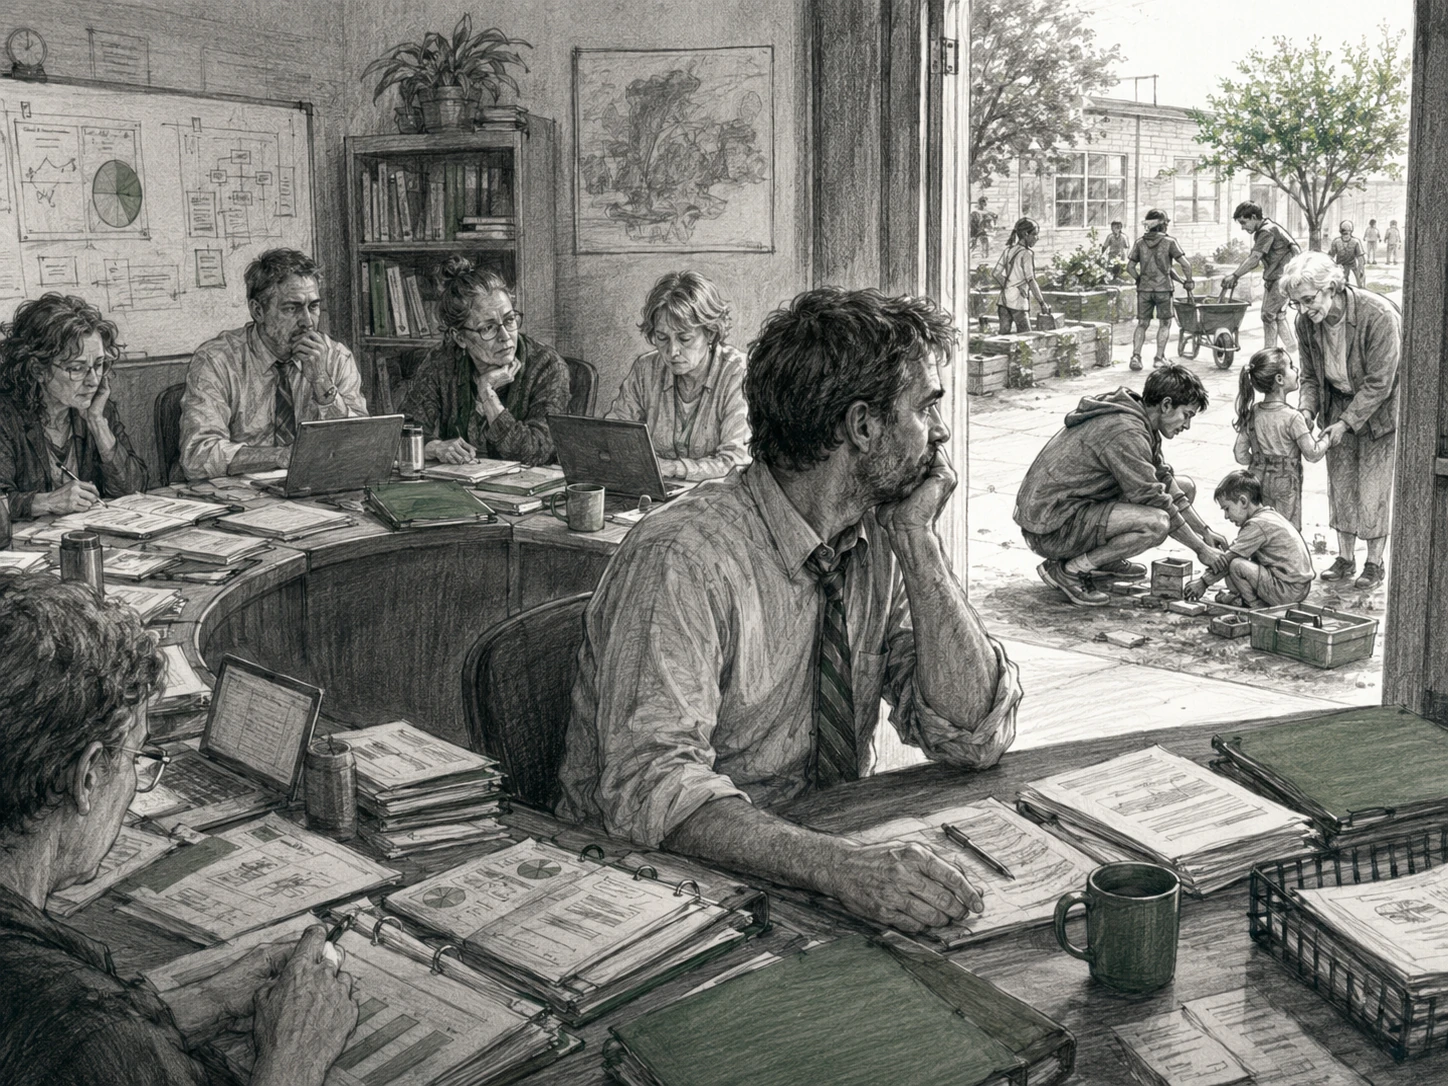
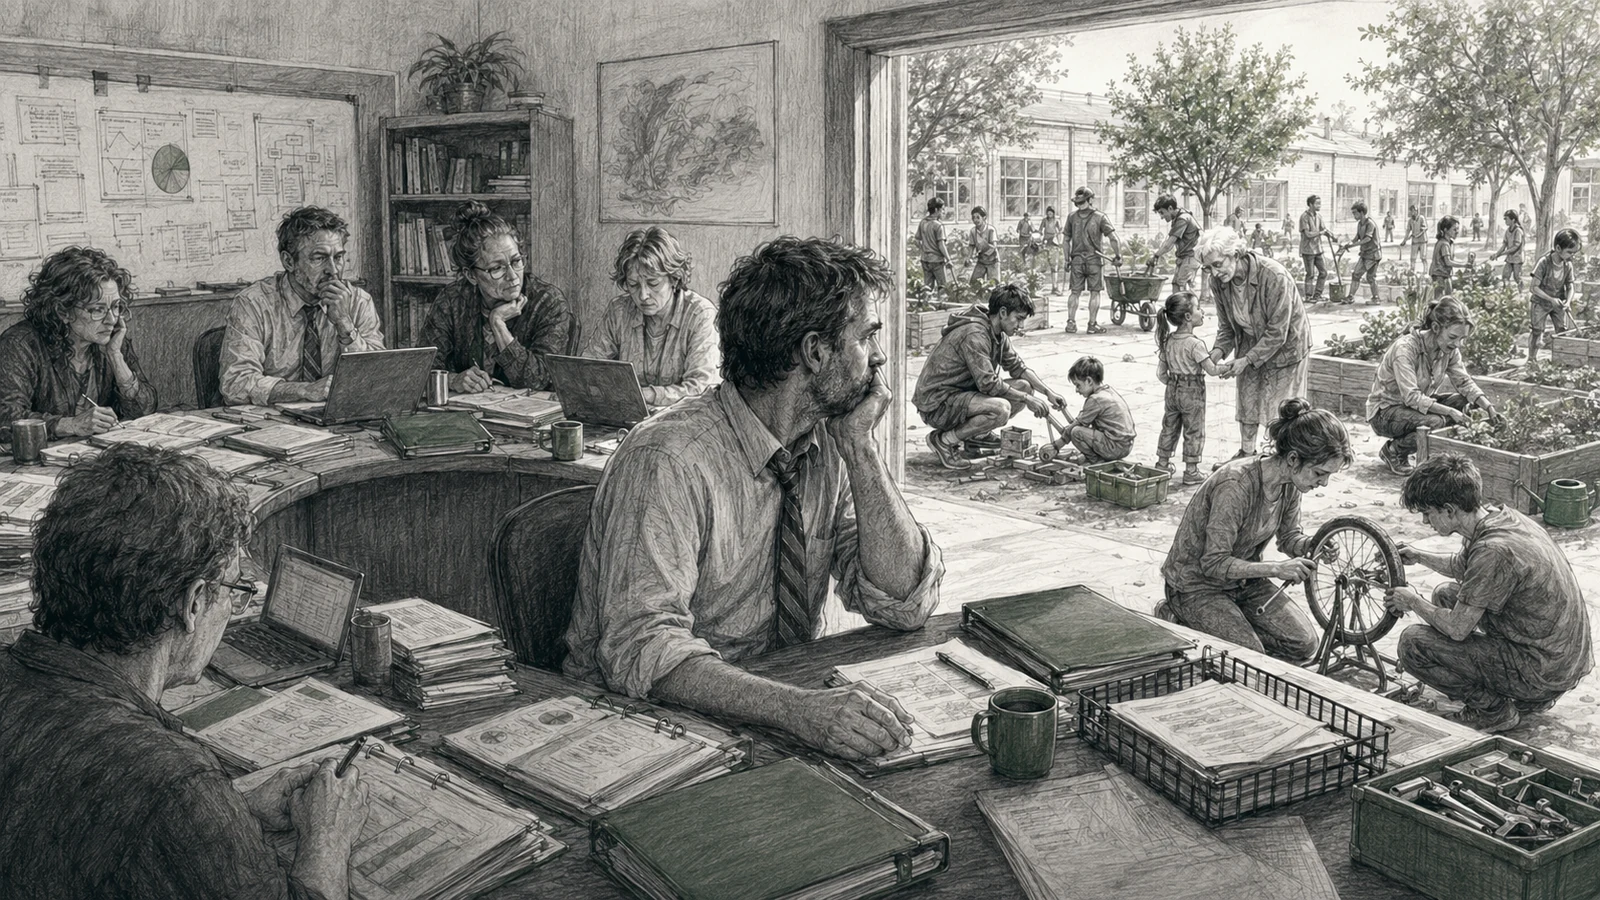
Update I Was Looking for Better Objections

diff --git a/src/content/posts/i-was-looking-for-better-objections/index.tsx b/src/content/posts/i-was-looking-for-better-objections/index.tsx
@@ -1,6 +1,8 @@
 import type { LifeEducationPost } from "../../postTypes";
 import { PostFigure } from "../../../components/PostFigure";
 import bodyImageOne from "./images/body-image-1.webp";
+import bodyImageTwo from "./images/body-image-2.webp";
+import bodyImageThree from "./images/body-image-3.webp";
 import bodyImageFour from "./images/body-image-4.webp";
 import { metadata } from "./meta";
 
@@ -55,6 +57,11 @@ const post: LifeEducationPost = {
 
       <p>"Not every family can do this" may be the strongest practical objection. Most families can't simply replace school under current work, housing, transportation, childcare, and income arrangements. My family currently depends on the custodial function of school too. That is an argument against pretending LifeEducation can become an immediate universal replacement. It isn't an argument that the current education is good enough.</p>
 
+      <PostFigure
+        src={bodyImageTwo}
+        alt="Young people move toward the same real-world destination along several supported paths involving coaching, tutoring, mobility access, tools, transportation, and community help."
+      />
+
       <h2>What the Feedback Was Actually Good For</h2>
 
       <p>The conversations did not expose a fatal flaw in the Floor, the evidence model, or the transfer of responsibility. They did expose something useful: I had not made several distinctions clearly enough for an ordinary reader encountering LifeEducation for the first time.</p>
@@ -73,11 +80,16 @@ const post: LifeEducationPost = {
         <li>Are you attacking teachers?</li>
       </ul>
 
-      <p>Those questions matter because they show where readers are likely to misunderstand the project. LifeEducation isn't anti-learning, anti-teacher, anti-structure, or anti-serious study. It doesn't claim that school never helps anyone or that every family can leave tomorrow. It does claim that school should be treated as one possible environment rather than the unquestioned authority over childhood and learning.</p>
+      <p>Those questions matter because they show where readers are likely to misunderstand the project. LifeEducation isn't anti-learning, anti-teacher, anti-structure, or anti-serious study. It doesn't claim that school never helps anyone or that every family can leave tomorrow. It does claim that school is one possible environment, not the operating system and not the default authority over childhood and learning. A school has to prove that it builds capability; it doesn't get automatic trust because it's official.</p>
 
       <p>It also claims that support should change the route without abandoning the destination. A child may need more time, more structure, direct instruction, tutoring, therapy, assistive technology, translation, quieter spaces, or outside expertise. None of that requires pretending capability exists when it doesn't.</p>
 
       <p>The objections helped me say those things more plainly.</p>
+
+      <PostFigure
+        src={bodyImageThree}
+        alt="Two people at a drafting table test the load-bearing joints of a layered framework with a ruler, magnifying glass, plumb line, and small weights."
+      />
 
       <PostFigure
         src={bodyImageFour}
@@ -89,6 +101,8 @@ const post: LifeEducationPost = {
       <p>LifeEducation isn't a finished product that another family can purchase and install. It's a framework being built for my children, documented publicly, tested against reality, and revised when the evidence requires it. I'm not asking people to agree with it, and I'm not pretending our implementation will work unchanged for everyone else.</p>
 
       <p>The objections I received did not make me rebuild LifeEducation. They did make me explain it better. That matters.</p>
+
+      <p>If you see the weakness I haven't, <a href="/contact">send it to me</a>. Tell me which capability is missing, which requirement can't be justified, where the evidence model will distort behavior, or where parent authority will last too long.</p>
 
       <p>But I am still looking for the objection that forces me to change the design.</p>
     </>

diff --git a/src/content/posts/i-was-looking-for-better-objections/meta.ts b/src/content/posts/i-was-looking-for-better-objections/meta.ts
@@ -8,6 +8,7 @@ export const metadata = {
   excerpt:
     "I asked teachers to challenge LifeEducation. Their objections did not force a redesign, but they showed me what the public explanation still needed to answer.",
   publishedAt: "2026-07-19",
+  modifiedAt: "2026-07-28",
   displayDate: "July 19, 2026",
   status: "Recent",
   topic: "Founding Notes",
